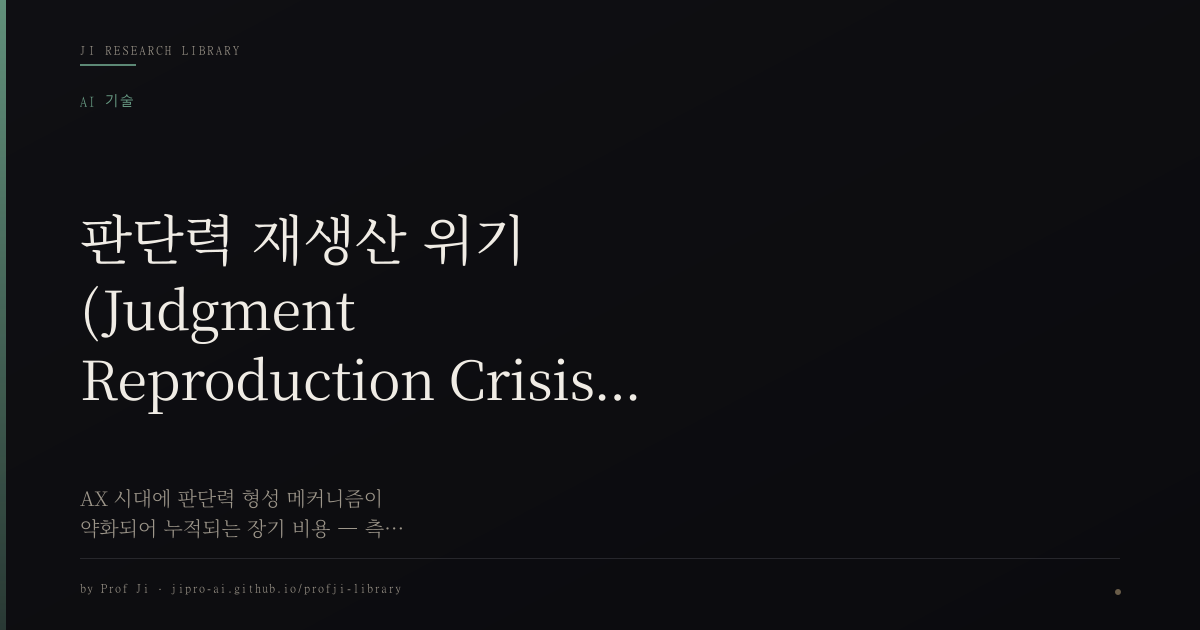
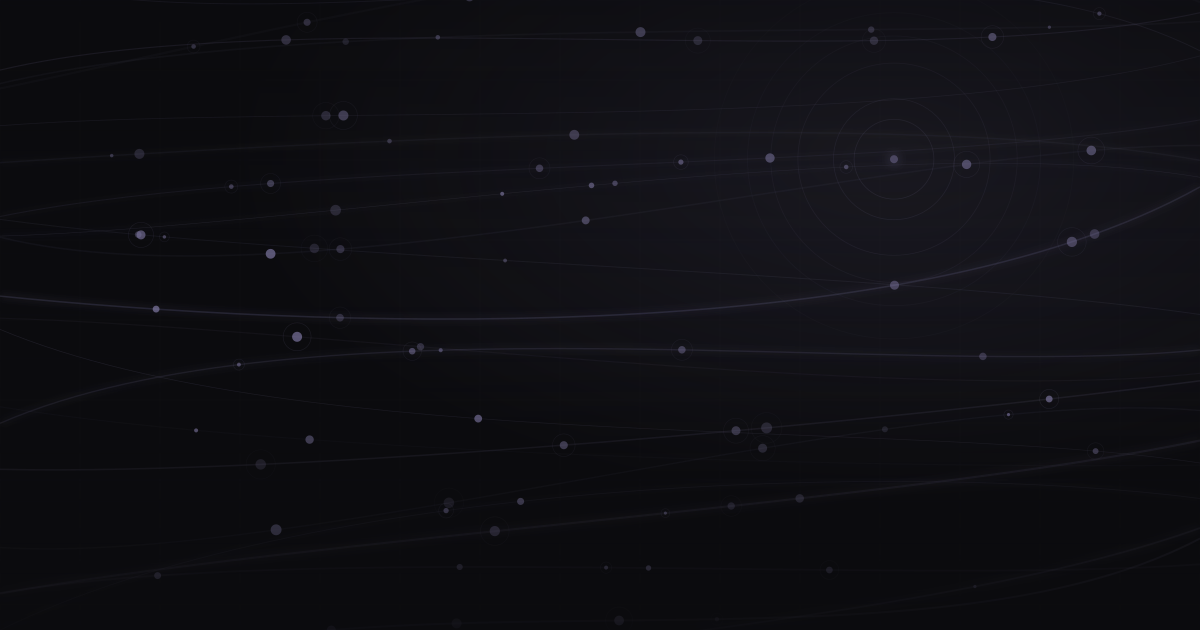
fix: JRC article — tag pattern, heading, references, hero image
Boss feedback fixes:
- Tags: Korean-mixed → English pattern (matches other articles)
- Heading "네 사례 같은 패턴" → "네 가지 사례로 보는 같은 패턴"
- References expanded with academic citations (Bainbridge 1983,
  Parasuraman 2010, Strathern 1997, Brynjolfsson 2021, Acemoglu 2020)
  + industry sources (Bloomberg, CIO Dive, Wharton, WEF, Microsoft)
  + 7 internal library references with role descriptions
- Hero image: replaced with abstract pattern (copied from
  expertise-reproduction-crisis.png — most thematically related)
  to match site standard

diff --git a/src/content/articles/judgment-reproduction-crisis.md b/src/content/articles/judgment-reproduction-crisis.md
@@ -3,7 +3,7 @@ title: "판단력 재생산 위기 (Judgment Reproduction Crisis, JRC)"
 description: "AX 시대에 판단력 형성 메커니즘이 약화되어 누적되는 장기 비용 — 측정 비대칭, 가역성 경계, 그리고 회복 정책"
 pubDate: "2026-05-07"
 category: "AI 기술"
-tags: ["JRC","판단력","측정 비대칭","결정부채","AX"]
+tags: ["AI","JRC","judgment","measurement-asymmetry","decision-debt","reproduction-crisis","AX"]
 ---
 
 ## 챗봇 700명을 해고했다가 다시 고용한 회사
@@ -34,7 +34,7 @@ AX 시대 조직 의사결정의 가장 깊은 왜곡은 측정 가능한 것과
 
 심리적 메커니즘도 같은 방향으로 작동한다. **"자동화 편향의 본질은 AI가 틀리는 것이 아니다. AI는 대부분 맞는다. 문제는 '대부분 맞기 때문에' 인간이 오류 가능성을 상상하지 않게 된다는 것이다."** AI가 80% 맞을 때 사람이 가장 위험하다. 90% 맞을 때 사람은 검증 자체를 생략한다. 그 생략의 비용은 그날 측정되지 않는다. 6개월 뒤 누군가 그 결정을 회의실에서 다시 들춰볼 때 청구된다.
 
-## 네 사례 같은 패턴
+## 네 가지 사례로 보는 같은 패턴
 
 판단력의 약화가 어떻게 운영비용으로 전이되는지를 네 개의 큰 사례에서 본다.
 
@@ -97,13 +97,28 @@ AX는 단기 효율을 만든다. 동시에 인간 판단력의 형성 메커니
 
 ## 참고문헌
 
-- 하이브리드 마인드 — 인간과 AI의 인지 융합 조건 (Ji Research Library)
-- 전문성 재생산 위기 — 초안이 자동화될 때 주니어는 어디서 배우는가 (Ji Research Library)
-- AI 도입 효과 측정의 함정 — 측정 비대칭과 KPI 왜곡 (Ji Research Library)
-- 자동화 편향과 의사결정 — AI가 대부분 맞을 때의 위험 (Ji Research Library)
-- 메타인지와 LLM 프롬프팅 — 사용자 인지가 AI 응답 품질을 결정하는 메커니즘 (Ji Research Library)
-- AI 번아웃과 조직 실패 — 효율-회복비용 패턴 (Ji Research Library)
-- AI가 빼앗는 것은 일자리가 아니라 재량권 — 판단권의 위치 이동 (Ji Research Library)
-- Klarna AI Customer Service Reversal (Bloomberg, 2025)
-- JPMorgan LLM Suite Enterprise Rollout (CIO Dive, 2026)
-- The Apprenticeship Layer Crisis (Wharton Knowledge, 2026)
+**학술 연구**
+
+- Bainbridge, L. (1983). "Ironies of Automation." *Automatica*, 19(6), 775–779. — 자동화가 진행될수록 인간 운영자의 역할이 더 어려워진다는 고전적 역설.
+- Parasuraman, R., & Manzey, D. H. (2010). "Complacency and Bias in Human Use of Automation: An Attentional Integration." *Human Factors*, 52(3), 381–410. — 자동화 편향(automation bias)의 실증 분석.
+- Strathern, M. (1997). "'Improving Ratings': Audit in the British University System." *European Review*, 5(3), 305–321. — 'When a measure becomes a target, it ceases to be a good measure'(굿하트의 법칙) 정식화.
+- Brynjolfsson, E., Rock, D., & Syverson, C. (2021). "The Productivity J-Curve: How Intangibles Complement General Purpose Technologies." *American Economic Journal: Macroeconomics*, 13(1), 333–372. — 신기술 도입의 생산성 측정 지연.
+- Acemoglu, D., & Restrepo, P. (2020). "Robots and Jobs: Evidence from US Labor Markets." *Journal of Political Economy*, 128(6), 2188–2244. — 자동화의 노동 시장 분배 효과.
+
+**산업 보고서·언론**
+
+- Bloomberg (2025). "Klarna CEO Reverses Course on AI: Hiring Humans Again After Service Quality Drop." — Sebastian Siemiatkowski의 'lower quality output' 인정 인터뷰.
+- CIO Dive (2026). "JPMorgan Chase to Equip 250K Workers with LLM Suite." — 25만 직원, 50% DAU, 450→1000 use cases 확장 로드맵.
+- Wharton Knowledge (2026). "Is AI Pushing Us to Break the Talent Pipeline?" — 신입 분석가 35% 감소, 'Editor Problem' 분석.
+- World Economic Forum (2026). "How AI is Changing the Nature of Entry Level Work." — 글로벌 cohort 데이터 + Microsoft preceptor program 사례.
+- Microsoft (2026). "Preceptor-style Cohort Programs: Pairing Senior Engineers with Junior Apprentices." — 6개월 rotation 실험 결과.
+
+**Ji Research Library 내부 참조**
+
+- 「하이브리드 마인드: 인간-AI 인지 융합의 조건」 — JRC의 협업 가능 영역 정의.
+- 「전문성 재생산 위기: 초안이 자동화될 때 주니어는 어디서 배우는가」 — JRC의 직업·도메인 단위 사례.
+- 「AI 도입 효과 측정의 함정」 — 측정 비대칭(Measurement Asymmetry) 개념의 원형.
+- 「자동화 편향과 의사결정」 — JRC의 심리적 메커니즘 근거.
+- 「메타인지와 LLM 프롬프팅」 — JRC 회복 원칙의 인지적 토대.
+- 「AI 번아웃과 조직 실패」 — '10→20→0' 패턴, 회복비용의 직관적 증거.
+- 「AI가 빼앗는 것은 일자리가 아니라 재량권」 — 판단권의 위치 이동, JRC의 권력 차원.